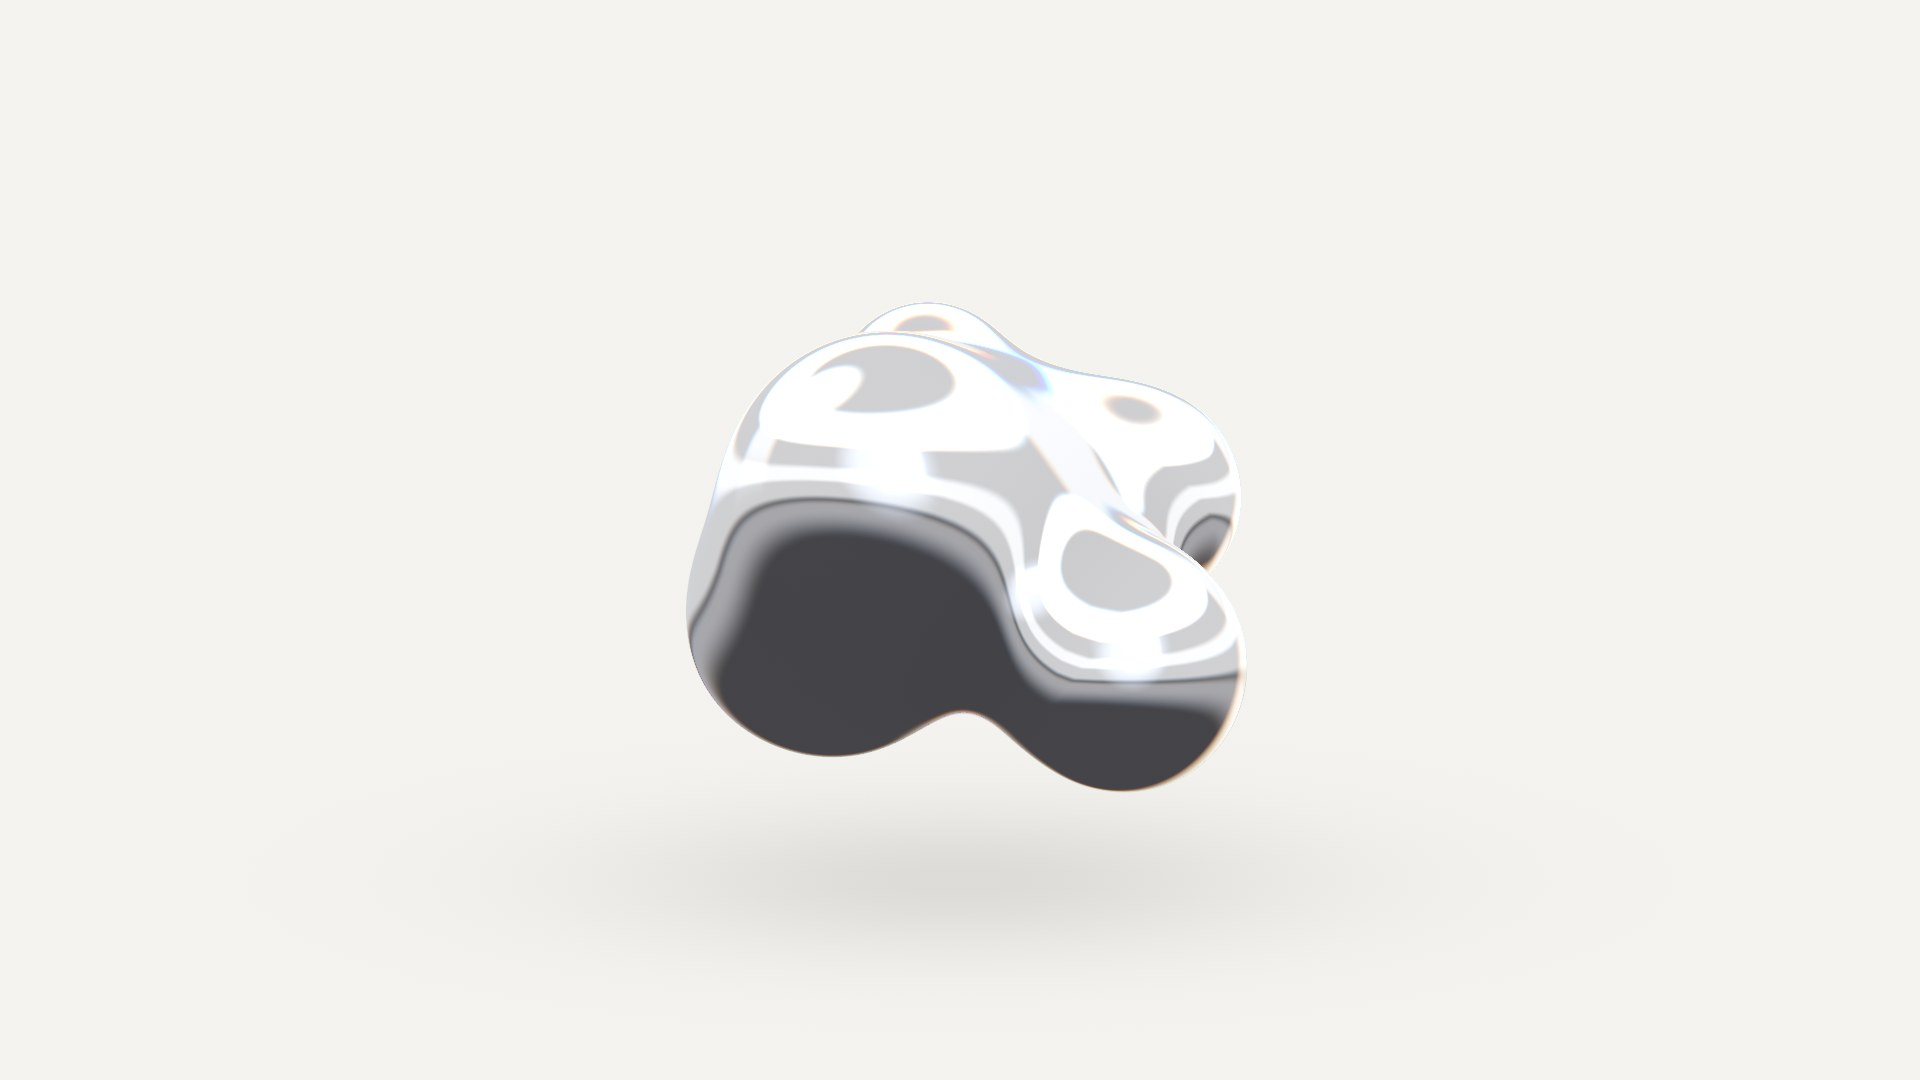
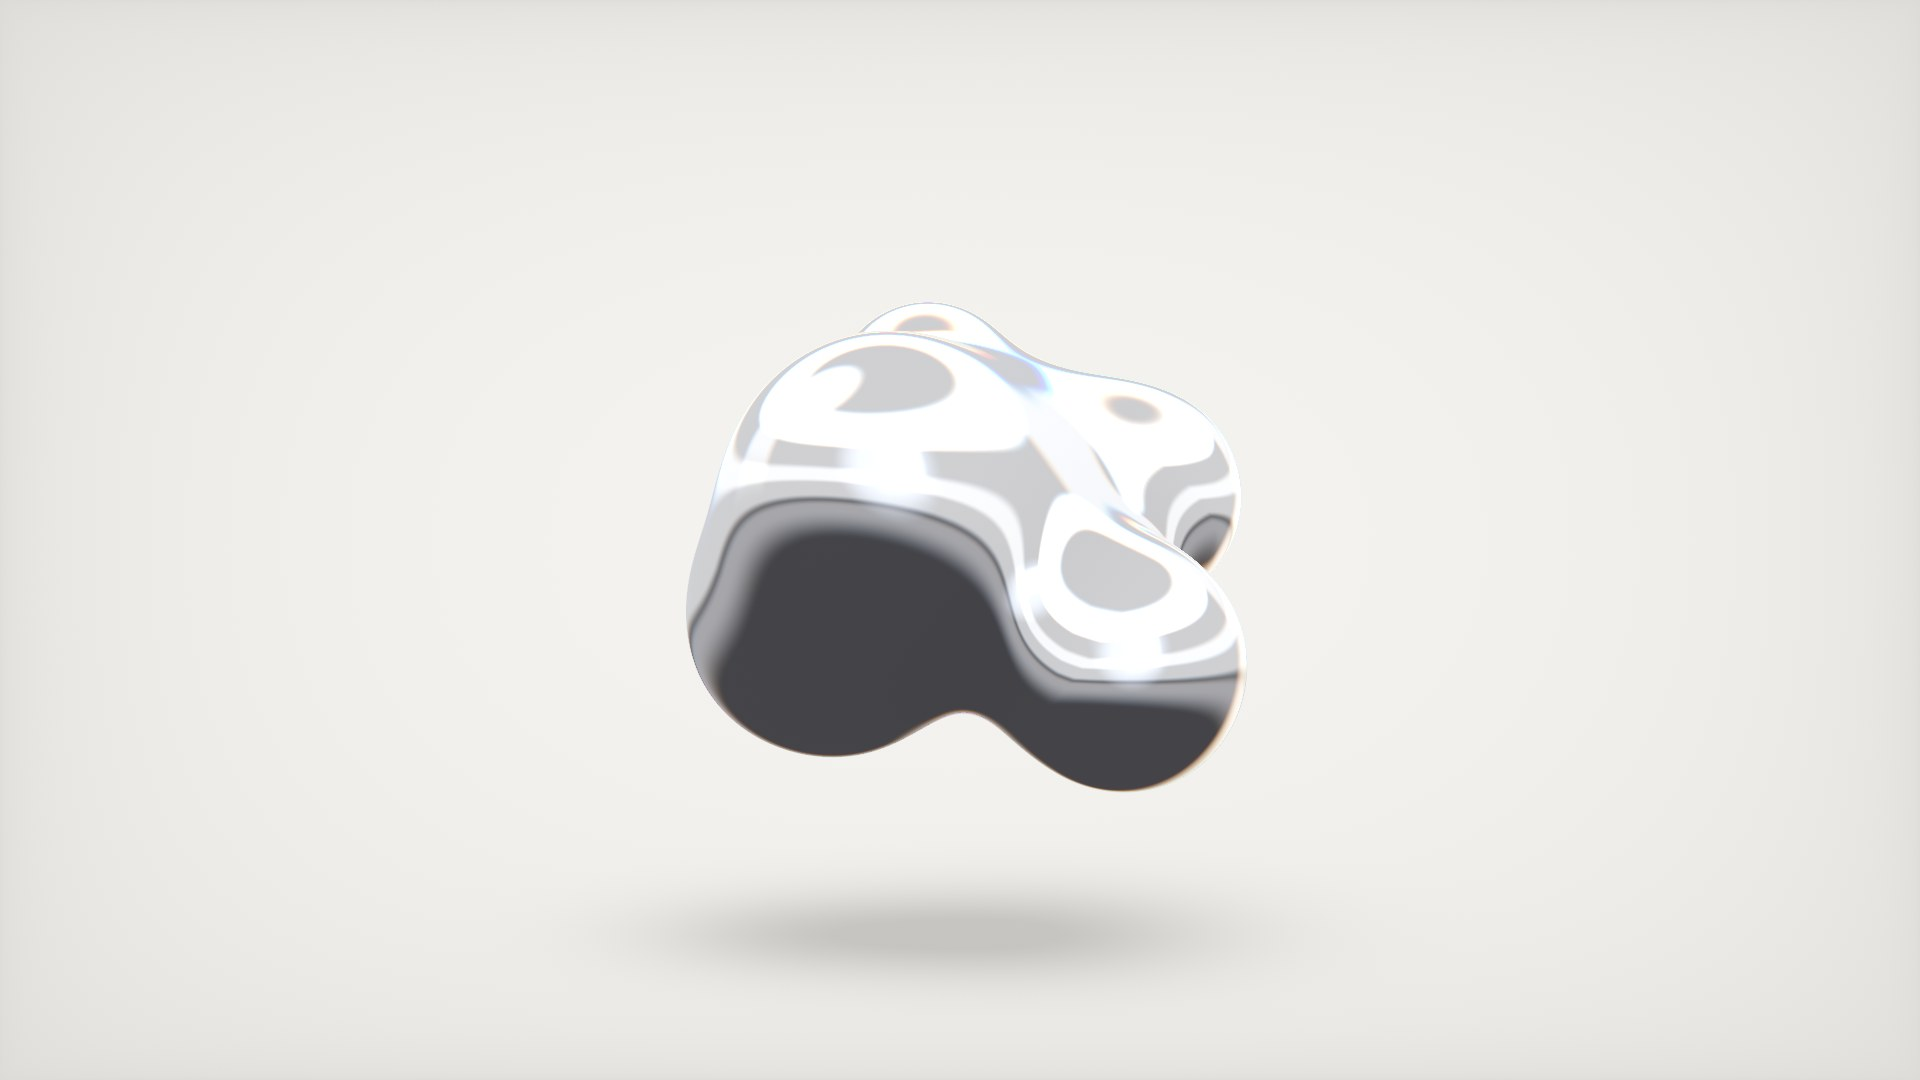
Add a cast shadow, strengthen the edge falloff, drop the footer link
- The ground shadow is now projected from the live metaball positions rather
  than being a fixed ellipse, so it stretches, splits and shifts as the mass
  moves and reaches for the cursor. Each ball throws its own blot, widening and
  weakening with height so it reads as contact rather than a decal.

- Satellite orbits moved from the shader to a uniform, computed once per frame
  on the CPU. They were being re-derived inside map(), which runs 100+ times per
  pixel — thousands of redundant trig ops each. That is what makes a per-pixel
  shadow affordable. (No measurable frame-time win at 1080p: already vsync
  bound at 8.3ms there.)

- Vignette across the whole frame at 0.21, so the empty margins read as a
  composition rather than an unfinished page.

- Footer GitHub link removed via config; main.ts already dropped the element
  when the value is null.

Poster rebaked from the updated shader.

Changed region(s): [[0.375, 0.825, 0.5938, 0.9167]]

diff --git a/src/gl/renderer.ts b/src/gl/renderer.ts
@@ -173,6 +173,7 @@ export function createRenderer(
     event: gl.getUniformLocation(program, 'uEvent'),
     focus: gl.getUniformLocation(program, 'uFocus'),
     paper: gl.getUniformLocation(program, 'uPaper'),
+    balls: gl.getUniformLocation(program, 'uBalls'),
   }
   const paperLinear = srgbToLinear(opts.paper)
   gl.uniform3f(u.paper, paperLinear[0], paperLinear[1], paperLinear[2])
@@ -226,8 +227,41 @@ export function createRenderer(
   let elapsed = 0
   let last = 0
 
+  // Satellite orbits, evaluated once per frame instead of once per map() call.
+  // Coprime-ish frequencies plus a golden-angle phase offset so the arrangement
+  // never visibly repeats or synchronises.
+  const ballData = new Float32Array(quality.balls * 4)
+
+  function updateBalls(t: number) {
+    for (let i = 0; i < quality.balls; i++) {
+      const a = i * 2.3999632
+
+      // The +1e-4 before normalising guards the degenerate case where all three
+      // components land on zero at once.
+      let x = Math.sin(t * (0.53 + 0.11 * i) + a) + 1e-4
+      let y = Math.cos(t * (0.47 + 0.09 * i) + a * 1.7) + 1e-4
+      let z = Math.sin(t * (0.41 + 0.13 * i) + a * 2.3) + 1e-4
+      const len = Math.hypot(x, y, z)
+
+      // Pinning each satellite to a known orbit radius matters: the raw sin/cos
+      // vector varies in length by ~1.7x, and at the top of that range a
+      // satellite drifts far enough to snap off the core. The radius keeps them
+      // proud of the core so they form necks rather than hiding inside it.
+      const frac = (i * 0.6180339) % 1
+      const s = (0.45 + 0.25 * frac) * (0.88 + 0.12 * Math.sin(t * 0.6 + a))
+      const k = s / len
+
+      ballData[i * 4] = x * k
+      ballData[i * 4 + 1] = y * k
+      ballData[i * 4 + 2] = z * k
+      ballData[i * 4 + 3] = 0.26 + 0.12 * ((i * 0.381966) % 1)
+    }
+    gl!.uniform4fv(u.balls, ballData)
+  }
+
   function draw(time: number) {
     const s = getState()
+    updateBalls(time)
     gl!.uniform1f(u.time, time)
     gl!.uniform2f(u.pointer, s.pointer[0], s.pointer[1])
     gl!.uniform1f(u.pointerActive, s.pointerActive)

diff --git a/src/config.ts b/src/config.ts
@@ -7,10 +7,10 @@ export const site = {
   /** One quiet line under the name. Keep it short — the blob is the loud thing. */
   role: 'Web developer',
   email: 'stephenc.dev@gmail.com',
-  /** Shown in the footer. Set to null to hide the link entirely. */
-  github: 'https://github.com/StephenCronk',
+  /** Footer link. Set to a URL to show it again; null removes it entirely. */
+  github: null as string | null,
   /** Footer availability line. Set to null to hide. */
-  availability: 'Available for new work',
+  availability: 'Available for new work' as string | null,
 } as const
 
 /**
